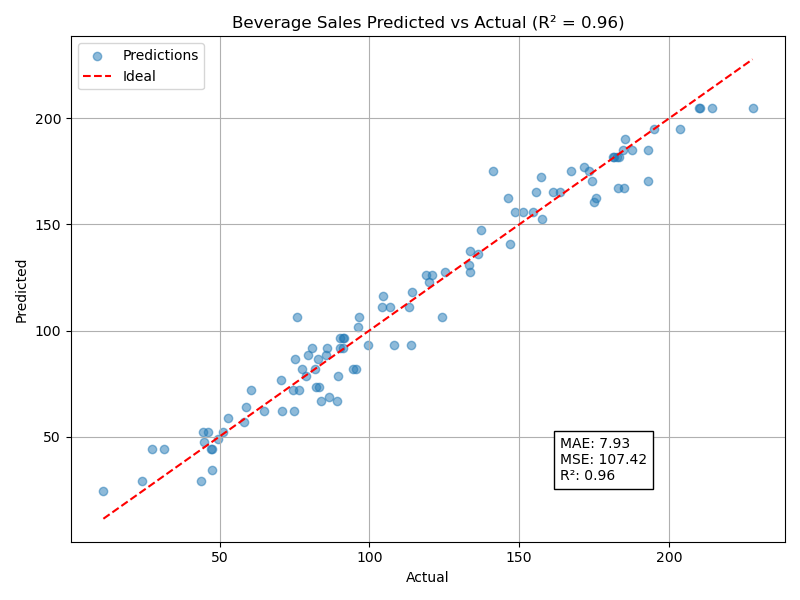
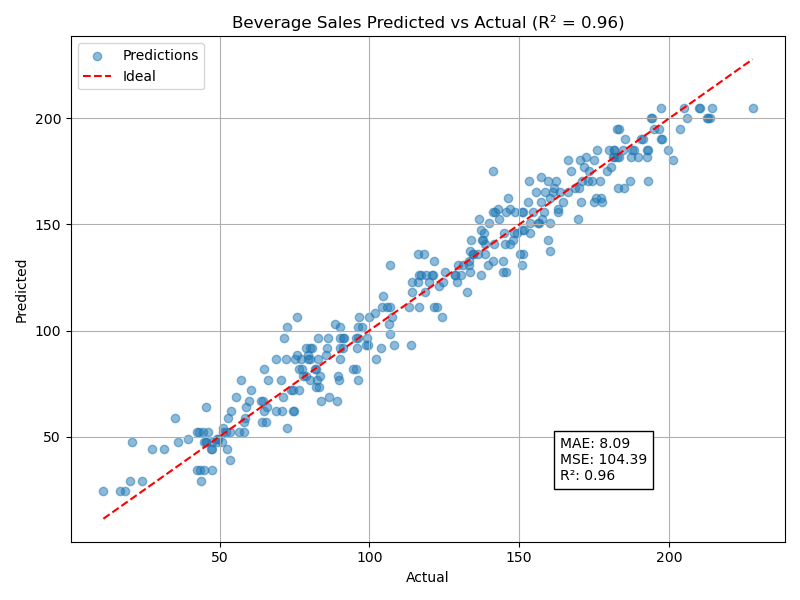
minor

diff --git a/src/python/visualize.py b/src/python/visualize.py
@@ -43,6 +43,6 @@ result = subprocess.run(["./bin/main"], capture_output=True, text=True)
 print(result.stdout)
 
 plot_predictions_vs_actual("data/output/salary-pred.csv", "data/output/salary-actual.csv", "Salary Predicted vs Actual", limit = 8, k=1)
-plot_predictions_vs_actual("data/output/bev-sales-pred.csv", "data/output/bev-sales-actual.csv", "Beverage Sales Predicted vs Actual", limit = 100, k=2)
-plot_predictions_vs_actual("data/output/cali-housing-pred.csv", "data/output/cali-housing-actual.csv", "California Housing Block Prices Predicted vs Actual", limit = 100, k=3)
+plot_predictions_vs_actual("data/output/bev-sales-pred.csv", "data/output/bev-sales-actual.csv", "Beverage Sales Predicted vs Actual", limit = 300, k=2)
+plot_predictions_vs_actual("data/output/cali-housing-pred.csv", "data/output/cali-housing-actual.csv", "California Housing Block Prices Predicted vs Actual", limit = 1000, k=3)
 
